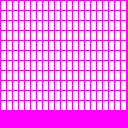
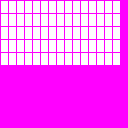
Add actual font

diff --git a/src/main.rs b/src/main.rs
@@ -73,10 +73,11 @@ impl Console {
     }
 
     pub fn iter(&self) -> impl DoubleEndedIterator<Item = ConsoleLineRef<'_>> {
-        std::iter::once(ConsoleLineRef::route(&self.route))
+        None.into_iter()
             .chain(std::iter::once_with(|| ConsoleLineRef::command(&self.command)))
             .chain(self.reply.iter().map(|item| item.as_line_ref()))
-            .chain(self.target.iter().map(|msg| ConsoleLineRef::target_list(msg)))
+            .chain(std::iter::once(ConsoleLineRef::route(&self.route)))
+            // .chain(self.target.iter().map(|msg| ConsoleLineRef::target_list(msg)))
             .chain(self.debug.iter().map(|item| item.as_line_ref()))
     }
 
@@ -233,7 +234,7 @@ impl<'a> RouteGenerator<'a> {
 
     fn begin_phase_edge(&mut self, console: &mut Console) {
         write_cout!(console, Info, 1, "edge phase");
-        write_cout!(console, Debug, 2, "looking at vertex {}", self.root);
+        write_cout!(console, Info, 2, "looking at vertex {}", self.root);
         self.queue.clear();
         self.visited.fill(const { None });
         self.visited[self.root as usize] = Some(Visit { distance: 0.0, parent: None });
@@ -263,6 +264,7 @@ impl<'a> RouteGenerator<'a> {
     }
 
     pub fn step(&mut self, console: &mut Console) {
+        if self.is_finished { return; }
         debug_assert!(!self.is_finished, "do not continue finished route");
         match &mut self.phase {
             Phase::None => {
@@ -283,16 +285,17 @@ impl<'a> RouteGenerator<'a> {
                         }
                     }
                     let distance = self.visited[*current as usize].expect("current must have been visited if it is queued").distance + weight;
+                    write_cout!(console, Info, 3, "vertex {vertex} is {distance} from root (vertex {}) through vertex {current}", self.root);
                     if self.visited[vertex as usize].is_none_or(|visit| distance < visit.distance) {
                         self.visited[vertex as usize] = Some(Visit { distance, parent: Some(*current) });
-                        write_cout!(console, Info, 3, "vertex {vertex} is {distance} from root (vertex {}) through vertex {current}, new best", self.root);
+                        write_cout!(console, Info, 4, "new best");
                     }
                     *i += 1;
                 } else {
                     if let Some(next_vert) = self.queue.pop_front() {
                         *current = next_vert;
                         *i = 0;
-                        write_cout!(console, Debug, 2, "looking at vertex {current}");
+                        write_cout!(console, Info, 2, "looking at vertex {current}");
                     } else {
                         self.begin_phase_target(console);
                     }
@@ -310,6 +313,9 @@ impl<'a> RouteGenerator<'a> {
                             *nearest_target = *i;
                         }
                         *i += 1;
+                    } else {
+                        write_cout!(console, Error, 0, "no route exists");
+                        self.is_finished = true;
                     }
                 } else {
                     assert!(*nearest_target < self.targets.len());
@@ -387,41 +393,45 @@ fn main() {
         .size(window_width, window_height)
         .title("Traversal")
         .resizable()
+        .msaa_4x()
         .build();
 
-    let img = Image::load_image_from_mem(".png", include_bytes!("resources/console.png")).unwrap();
-    let font = dbg!(rl.load_font_from_image(&thread, &img, Color::MAGENTA, ' ' as i32).unwrap());
+    // let img = Image::load_image_from_mem(".png", include_bytes!("resources/console.png")).unwrap();
+    // let font = dbg!(rl.load_font_from_image(&thread, &img, Color::MAGENTA, ' ' as i32).unwrap());
+    let font = rl.load_font_from_memory(&thread, ".ttf", include_bytes!("resources/ShareTechMono-Regular.ttf"), 16, None).unwrap();
 
+    rl.maximize_window();
     rl.set_target_fps(120);
 
     define_verts!{
         verts:
         // Satellites
-        Alpha    (A) = (   0.0, 0.0,    0.0);
-        Bravo    (B) = (-100.0, 0.0, -200.0);
-        Charlie  (C) = (   0.0, 0.0, -200.0);
-        Delta    (D) = ( 100.0, 0.0, -200.0);
-        Echo     (E) = ( 200.0, 0.0, -100.0);
-        Foxtrot  (F) = ( 200.0, 0.0,    0.0);
-        Golf     (G) = ( 200.0, 0.0,  100.0);
-        Hotel    (H) = ( 100.0, 0.0,  200.0);
-        India    (I) = (   0.0, 0.0,  200.0);
-        Juliett  (J) = (-100.0, 0.0,  200.0);
-        Kilo     (K) = (-200.0, 0.0,  100.0);
-        Lima     (L) = (-200.0, 0.0,    0.0);
-        Mike     (M) = (-200.0, 0.0, -100.0);
-        November (N) = (-300.0, 0.0, -300.0);
-        Oscar    (O) = ( 300.0, 0.0, -300.0);
-        Papa     (P) = ( 300.0, 0.0,  300.0);
-        Quebec   (Q) = (-300.0, 0.0,  300.0);
-        Romeo    (R) = (-500.0, 0.0, -500.0);
-        Sierra   (S) = (   0.0, 0.0, -500.0);
-        Tango    (T) = ( 500.0, 0.0, -500.0);
-        Uniform  (U) = ( 500.0, 0.0,    0.0);
-        Victor   (V) = ( 500.0, 0.0,  500.0);
-        Whiskey  (W) = (   0.0, 0.0,  500.0);
-        Xray     (X) = (-500.0, 0.0,  500.0);
-        Yankee   (Y) = (-500.0, 0.0,    0.0);
+        Alpha    (A) = (     0.0,   0.0,      0.0);
+        Bravo    (B) = (-  100.0,   0.0, -  200.0);
+        Charlie  (C) = (     0.0,   0.0, -  200.0);
+        Delta    (D) = (   100.0,   0.0, -  200.0);
+        Echo     (E) = (   200.0,   0.0, -  100.0);
+        Foxtrot  (F) = (   200.0,   0.0,      0.0);
+        Golf     (G) = (   200.0,   0.0,    100.0);
+        Hotel    (H) = (   100.0,   0.0,    200.0);
+        India    (I) = (     0.0,   0.0,    200.0);
+        Juliett  (J) = (-  100.0,   0.0,    200.0);
+        Kilo     (K) = (-  200.0,   0.0,    100.0);
+        Lima     (L) = (-  200.0,   0.0,      0.0);
+        Mike     (M) = (-  200.0,   0.0, -  100.0);
+        November (N) = (-  300.0,   0.0, -  300.0);
+        Oscar    (O) = (   300.0,   0.0, -  300.0);
+        Papa     (P) = (   300.0,   0.0,    300.0);
+        Quebec   (Q) = (-  300.0,   0.0,    300.0);
+        Romeo    (R) = (-  500.0,  20.0, -  500.0);
+        Sierra   (S) = (     0.0,  20.0, -  500.0);
+        Tango    (T) = (   500.0,  20.0, -  500.0);
+        Uniform  (U) = (   500.0,  20.0,      0.0);
+        Victor   (V) = (   500.0,  20.0,    500.0);
+        Whiskey  (W) = (     0.0,  20.0,    500.0);
+        Xray     (X) = (-  500.0,  20.0,    500.0);
+        Yankee   (Y) = (-  500.0,  20.0,      0.0);
+        Zulu     (Z) = ( 10000.0,   0.0,  10000.0);
 
         // Transformers
         TR1 (TR1) = ( 400.0, 0.0,  200.0); // Transformer 1
@@ -514,7 +524,8 @@ fn main() {
 
     let graph = WeightedGraph::new(verts, edges);
 
-    let mut route = RouteGenerator::new(&graph, A.id(), [S.id(), N.id(), TR3.id(), G.id(), TR1.id(), Q.id(), J.id(), Y.id(), T.id(), O.id()]);
+    let mut route = RouteGenerator::new(&graph, A.id(), []);
+    route.is_finished = true;
     let mut is_paused = false;
     let mut was_paused = false; // paused before giving command
 
@@ -542,7 +553,7 @@ fn main() {
                 // finish giving command
                 is_paused = was_paused;
 
-                let command = std::mem::take(&mut console.command);
+                let command = console.command.clone();
                 let mut args = command.split(' ');
                 if let Some(cmd) = args.next() {
                     const CMD_HELP: &str = "help";
@@ -566,7 +577,7 @@ fn main() {
                             let mut targets = Vec::new();
                             for id in args {
                                 let v = graph.verts_iter()
-                                    .position(|(_, vert)| (!vert.id.starts_with("Bridge") && (vert.id == id || vert.alias == id)))
+                                    .position(|(_, vert)| (vert.id.eq_ignore_ascii_case(id) || vert.alias.eq_ignore_ascii_case(id)))
                                     .map(|v| v as VertexID);
                                 if let Some(v) = v {
                                     if targets.contains(&v) {
@@ -583,6 +594,7 @@ fn main() {
                             if let Some(first) = iter.next() {
                                 if iter.len() != 0 {
                                     route = RouteGenerator::new(&graph, first, iter);
+                                    write_cout!(@reply: console, Info, "generating route");
                                 } else {
                                     write_cout!(@reply: console, Warning, "no targets provided");
                                 }
@@ -613,8 +625,11 @@ fn main() {
                         }
 
                         CMD_DBG => {
-
+                            is_debugging = !is_debugging;
+                            write_cout!(@reply: console, Info, "debugging is now {}", if is_debugging { "on" } else { "off" });
                         }
+
+                        "" => {}
 
                         _ => {
                             write_cout!(@reply: console, Error, "no such command: `{cmd}`");
@@ -681,7 +696,7 @@ fn main() {
                 let [i, j] = edge.adj.map(usize::from);
                 let p0 = graph.verts[i].pos;
                 let p1 = graph.verts[j].pos;
-                d.draw_line_3D(p0, p1, Color::RED.alpha(0.25));
+                d.draw_capsule(p0, p1, 1.0, 16, 0, Color::RED.alpha(0.25));
             }
 
             for (v, vert) in graph.verts_iter() {
@@ -711,27 +726,31 @@ fn main() {
                 };
                 d.draw_sphere(vert.pos, 8.0, color);
                 if let Some(Visit { parent: Some(p), .. }) = route.visited[v as usize] {
-                    d.draw_line_3D(graph.verts[p as usize].pos, vert.pos, Color::BLUE);
+                    d.draw_capsule(graph.verts[p as usize].pos, vert.pos, 1.0, 16, 0, Color::BLUE);
                 }
             }
 
             for pair in route.result.windows(2) {
                 let [a, b] = pair else { panic!("window(2) should always create 2 elements") };
-                d.draw_capsule(graph.verts[*a as usize].pos, graph.verts[*b as usize].pos, 2.0, 16, 16, Color::BLUEVIOLET);
+                d.draw_capsule(graph.verts[*a as usize].pos, graph.verts[*b as usize].pos, 2.0, 16, 0, Color::BLUEVIOLET);
             }
 
-            d.draw_line_3D(camera.target + Vector3::new(-5.0, 0.0,  0.0), camera.target + Vector3::new(5.0, 0.0, 0.0), Color::BLUEVIOLET);
-            d.draw_line_3D(camera.target + Vector3::new( 0.0, 0.0, -5.0), camera.target + Vector3::new(0.0, 0.0, 5.0), Color::BLUEVIOLET);
+            d.draw_capsule(camera.target + Vector3::new(-5.0, 0.0,  0.0), camera.target + Vector3::new(5.0, 0.0, 0.0), 1.0, 16, 0, Color::BLUEVIOLET);
+            d.draw_capsule(camera.target + Vector3::new( 0.0, 0.0, -5.0), camera.target + Vector3::new(0.0, 0.0, 5.0), 1.0, 16, 0, Color::BLUEVIOLET);
         }
 
         for (v, vert) in graph.verts_iter() {
             let pos = d.get_world_to_screen(vert.pos, camera);
-            let text_width = d.measure_text(&vert.alias, 10);
-            d.draw_text_ex(&font, &vert.alias, pos - rvec2(text_width/2, font.baseSize/2), font.baseSize as f32, 1.0, Color::WHITE);
+            let text = vert.alias.as_str();
+            let text_size = {
+                let c_text = std::ffi::CString::new(text).unwrap();
+                unsafe { ffi::MeasureTextEx(*font.as_ref(), c_text.as_ptr(), font.baseSize as f32, 0.0) }
+            };
+            d.draw_text_ex(&font, text, pos - rvec2(text_size.x*0.5, font.baseSize/2), font.baseSize as f32, 0.0, Color::WHITE);
             if let Some(Visit { distance, parent }) = route.visited[v as usize] {
                 let parent_text = parent.map_or("-", |p| &graph.verts[p as usize].alias);
                 let text = format!("{} ({parent_text})", distance.ceil());
-                d.draw_text_ex(&font, &text, pos + rvec2(text_width/2 + 3, 3), font.baseSize as f32, 1.0, Color::GRAY);
+                d.draw_text_ex(&font, &text, pos + rvec2(text_size.x*0.5 + 3.0, 3), font.baseSize as f32, 0.0, Color::GRAY);
             }
         }
 
@@ -752,24 +771,25 @@ fn main() {
 
         let mut n = 0;
         for item in console.iter() {
-            let (color, prefix) = match item.cat {
-                ConsoleLineCategory::Route      => (Color::RAYWHITE,  "route: "  ),
-                ConsoleLineCategory::Command    => (Color::LIGHTBLUE, ">"        ),
-                ConsoleLineCategory::TargetList => (Color::LIME,      "targets: "),
-                ConsoleLineCategory::Trace      => (Color::DARKGRAY,  "trace: "  ),
-                ConsoleLineCategory::Debug      => (Color::MAGENTA,   "debug: "  ),
-                ConsoleLineCategory::Info       => (Color::LIGHTGRAY, "<"        ),
-                ConsoleLineCategory::Warning    => (Color::GOLD,      "warning: "),
-                ConsoleLineCategory::Error      => (Color::RED,       "err "  ),
-                ConsoleLineCategory::Fatal      => (Color::SALMON,    "fatal: "  ),
+            let (color, prefix, suffix) = match item.cat {
+                ConsoleLineCategory::Route                 => (Color::RAYWHITE,  "route: ", ""),
+                ConsoleLineCategory::Command               => (Color::LIGHTBLUE, ">", if is_giving_command { "_" } else { "" }),
+                ConsoleLineCategory::TargetList            => (Color::LIME,      "targets: ", ""),
+                ConsoleLineCategory::Trace                 => (Color::DARKGRAY,  "trace: ", ""),
+                ConsoleLineCategory::Debug if is_debugging => (Color::MAGENTA,   "debug: ", ""),
+                ConsoleLineCategory::Debug                 => continue,
+                ConsoleLineCategory::Info                  => (Color::LIGHTGRAY, "<", ""),
+                ConsoleLineCategory::Warning               => (Color::GOLD,      "warning: ", ""),
+                ConsoleLineCategory::Error                 => (Color::RED,       "err: ", ""),
+                ConsoleLineCategory::Fatal                 => (Color::SALMON,    "fatal: ", ""),
             };
-            for line in format!("{prefix}{}", item.msg).lines() {
-                d.draw_text_ex(&font, &line, rvec2(0, font.baseSize*n), font.baseSize as f32, 1.0, color);
+            for line in format!("{prefix}{}{suffix}", item.msg).lines() {
+                d.draw_text_ex(&font, &line, rvec2(0, font.baseSize*n), font.baseSize as f32, 0.0, color);
                 n += 1;
             }
         }
-        d.draw_text_ex(&font, " !\"#$%\'()*+,-./0123456789:;<=>?@ABCDEFGHIJKLMNOPQRSTUVWXYZ[\\]^_`abcdefghijklmnopqrstuvwxyz{|}~", rvec2(0, window_height - font.baseSize*3), font.baseSize as f32, 1.0, Color::YELLOW);
-        d.draw_text_ex(&font, "THE QUICK BROWN FOX JUMPS OVER THE LAZY DOG", rvec2(0, window_height - font.baseSize*2), font.baseSize as f32, 1.0, Color::YELLOW);
-        d.draw_text_ex(&font, "the quick brown fox jumps over the lazy dog", rvec2(0, window_height - font.baseSize), font.baseSize as f32, 1.0, Color::YELLOW);
+        // d.draw_text_ex(&font, " !\"#$%\'()*+,-./0123456789:;<=>?@ABCDEFGHIJKLMNOPQRSTUVWXYZ[\\]^_`abcdefghijklmnopqrstuvwxyz{|}~", rvec2(0, window_height - font.baseSize*3), font.baseSize as f32, 0.0, Color::YELLOW);
+        // d.draw_text_ex(&font, "THE QUICK BROWN FOX JUMPS OVER THE LAZY DOG", rvec2(0, window_height - font.baseSize*2), font.baseSize as f32, 0.0, Color::YELLOW);
+        // d.draw_text_ex(&font, "the quick brown fox jumps over the lazy dog", rvec2(0, window_height - font.baseSize), font.baseSize as f32, 0.0, Color::YELLOW);
     }
 }
